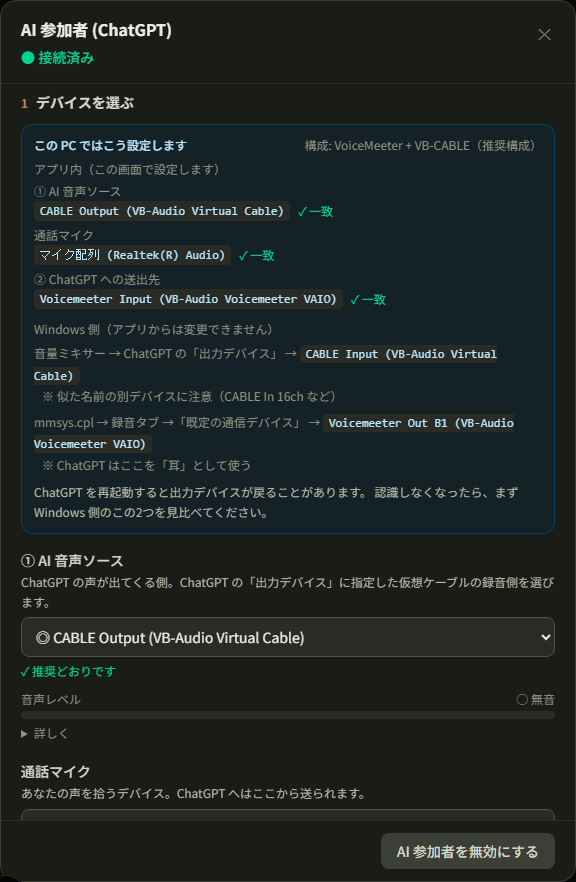
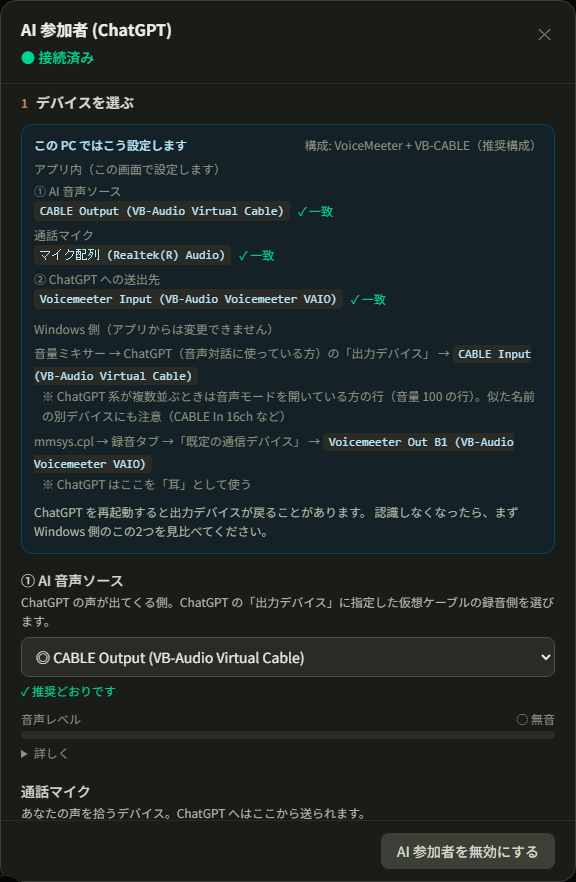
fix(ai): ChatGPT系アプリの役割を訂正する（両方起動が正常）
この PC では `ChatGPT` が Codex で、音声対話に使うのは `ChatGPT Classic`。
つまり2つ起動しているのが正常な状態で、直前の実装が書いた
「二重起動だから使わない方を終了する」は誤った助言だった。
音量ミキサーで CABLE Input が設定されていたのも Classic の行で、事実と一致する。

事故になるのは終了し忘れではなく、**設定するアプリを取り違えること**
（別アプリの行に出力デバイスを設定しても効かない）。そこを指す文言へ直した。

- scripts/check-chatgpt-audio.ps1: `-VoiceApp`（既定 'ChatGPT Classic'）を追加。
  音声用アプリの起動を検査し、同時起動している別アプリは「終了不要」と明記する。
  常時出る注意扱いをやめたので、正常時は「結果: 問題なし」で終わる
- 設定モーダルの Windows 側案内を「ChatGPT（音声対話に使っている方）の行」に変更
- 手順書（アプリ内 + docs）の該当項目を書き換え、スクショを撮り直した

Changed region(s): [[0.0312, 0.398, 0.9688, 0.949]]

diff --git a/app/help/ai-participant/page.tsx b/app/help/ai-participant/page.tsx
@@ -457,9 +457,16 @@ export default function AiParticipantHelpPage() {
               に使い、収録する声は物理マイク（マイク配列）から録ってください。
             </Trouble>
             <Trouble q="ChatGPT と ChatGPT Classic が両方入っている">
-              設定が効くのは実際に音声モードを開いている方だけです。両方起動していると
-              「設定は正しいのに認識しない」状態になります。使わない方はタスクトレイからも
-              完全に終了してください。診断スクリプトはこの二重起動も検出します。
+              <strong className="text-stone-200">両方あるのは正常です。終了させる必要はありません</strong>
+              （開発 PC では
+              <code className="mx-1 rounded bg-stone-800 px-1.5 py-0.5 text-xs">ChatGPT</code>
+              が Codex、音声対話は
+              <code className="mx-1 rounded bg-stone-800 px-1.5 py-0.5 text-xs">ChatGPT Classic</code>
+              です）。事故になるのは
+              <strong className="text-stone-200">設定するアプリを取り違えたとき</strong>
+              だけです。音量ミキサーで出力デバイスを
+              <code className="mx-1 rounded bg-stone-800 px-1.5 py-0.5 text-xs">CABLE Input</code>
+              にするのは、音声対話に使っている方の行（行が複数あるときは音量が 100 の行）です。
             </Trouble>
             <Trouble q="ハウリングする">
               スピーカーを使っていないか、VoiceMeeter で A が点灯していないかを確認してください。

diff --git a/components/AiWiringPlanPanel.tsx b/components/AiWiringPlanPanel.tsx
@@ -68,9 +68,9 @@ export function AiWiringPlanPanel({
 
   const osRows: { where: string; value: string | null; note?: string }[] = [
     {
-      where: '音量ミキサー → ChatGPT の「出力デバイス」',
+      where: '音量ミキサー → ChatGPT（音声対話に使っている方）の「出力デバイス」',
       value: plan.chatgptOutput?.label ?? null,
-      note: '似た名前の別デバイスに注意（CABLE In 16ch など）',
+      note: 'ChatGPT 系が複数並ぶときは音声モードを開いている方の行（音量 100 の行）。似た名前の別デバイスにも注意（CABLE In 16ch など）',
     },
     {
       where: 'mmsys.cpl → 録音タブ →「既定の通信デバイス」',

diff --git a/docs/ai-participant-setup.md b/docs/ai-participant-setup.md
@@ -22,7 +22,7 @@ pwsh -File scripts/check-chatgpt-audio.ps1
 - VoiceMeeter の **IN1 に何が割り当たっているか / A・B の点灯 / MUTE**
   （VoiceMeeter Remote API から実際の値を読む。画面の目視ではない）
 - **B1 バスの実測ピーク（dB）— ChatGPT が今まさに聞いている音そのもの**
-- ChatGPT と ChatGPT Classic の二重起動
+- 音声対話に使っているアプリが起動しているか
 
 判定は明快で、**B1 に音が乗っていれば配線は正常**（原因は ChatGPT アプリ側）、
 **B1 が無音なら配線が切れている**。ここで切り分けが終わるので、
@@ -65,7 +65,12 @@ Windows 側の案内まで間違っていた）。
    （正常な割当は淡い色。HARDWARE OUT A1 の表示と見比べれば一目で分かる）。
    IN1 が死ぬと B1 は完全な無音になり、ChatGPT は何も聞こえない。
    **イヤホンは聴くためだけに使い、収録する声は物理マイクから録る。**
-2. **ChatGPT と ChatGPT Classic の二重起動。** 設定が効くのは音声モードを開いている方だけ。
+2. **ChatGPT 系アプリが2つあり、設定するアプリを取り違える。**
+   この開発 PC では **`ChatGPT` は Codex、音声対話は `ChatGPT Classic`**。
+   **両方起動しているのが正常**なので、片方を終了させる必要はない。
+   事故になるのは「音量ミキサーで別のアプリの行に出力デバイスを設定してしまう」場合。
+   出力デバイスを `CABLE Input` にするのは **音声対話に使っている方の行**。
+   診断スクリプトは `-VoiceApp` で対象アプリを指定できる（既定 `ChatGPT Classic`）。
 3. **録音の「既定の通信デバイス」が Voicemeeter Out B1 から外れる。**
    ChatGPT はここを見るので、外れた瞬間に耳が別の場所へ移る。
 

diff --git a/KNOWLEDGE.md b/KNOWLEDGE.md
@@ -50,7 +50,10 @@ Last synced: 2026-08-21
   1. **イヤホン接続で VoiceMeeter の IN1 が別デバイスへ変わる／開けなくなる**（最頻）。
      2026-08-21 は IN1 が soundcore P40i になっていた。VoiceMeeter は開けないデバイス名を
      **赤文字**で表示する（正常な割当は淡色）
-  2. ChatGPT と ChatGPT Classic の二重起動 — 設定が効くのは片方だけ
+  2. 設定するアプリの取り違え。**この開発 PC では `ChatGPT` = Codex、音声対話は
+     `ChatGPT Classic`。両方起動しているのが正常**で終了させる必要はない。
+     音量ミキサーで出力デバイスを設定するのは音声対話に使っている方の行
+     （スクリプトの既定は `-VoiceApp 'ChatGPT Classic'`）
   3. 録音の「既定の通信デバイス」が `Voicemeeter Out B1` から外れる（ここが ChatGPT の耳）
 - 実装: CoreAudio COM で既定4枠を取得 + VoicemeeterRemote64.dll の Remote API で
   IN1 デバイス名 / A・B / MUTE を実値取得 + `VBVMR_GetLevel` でレベル実測
@@ -92,3 +95,4 @@ Last synced: 2026-08-21
 ### 変更履歴
 - 2026-08-20: 初版作成。AI参加者収録機能（PR #8）の状況を記載
 - 2026-08-21: ChatGPT音声が認識されないときの復旧手順を追加（scripts/check-chatgpt-audio.ps1）。AI参加者機能をマージ済み・本番稼働中に更新
+- 2026-08-21: ChatGPT系アプリの役割を訂正（ChatGPT=Codex / ChatGPT Classic=音声対話。両方起動が正常）
